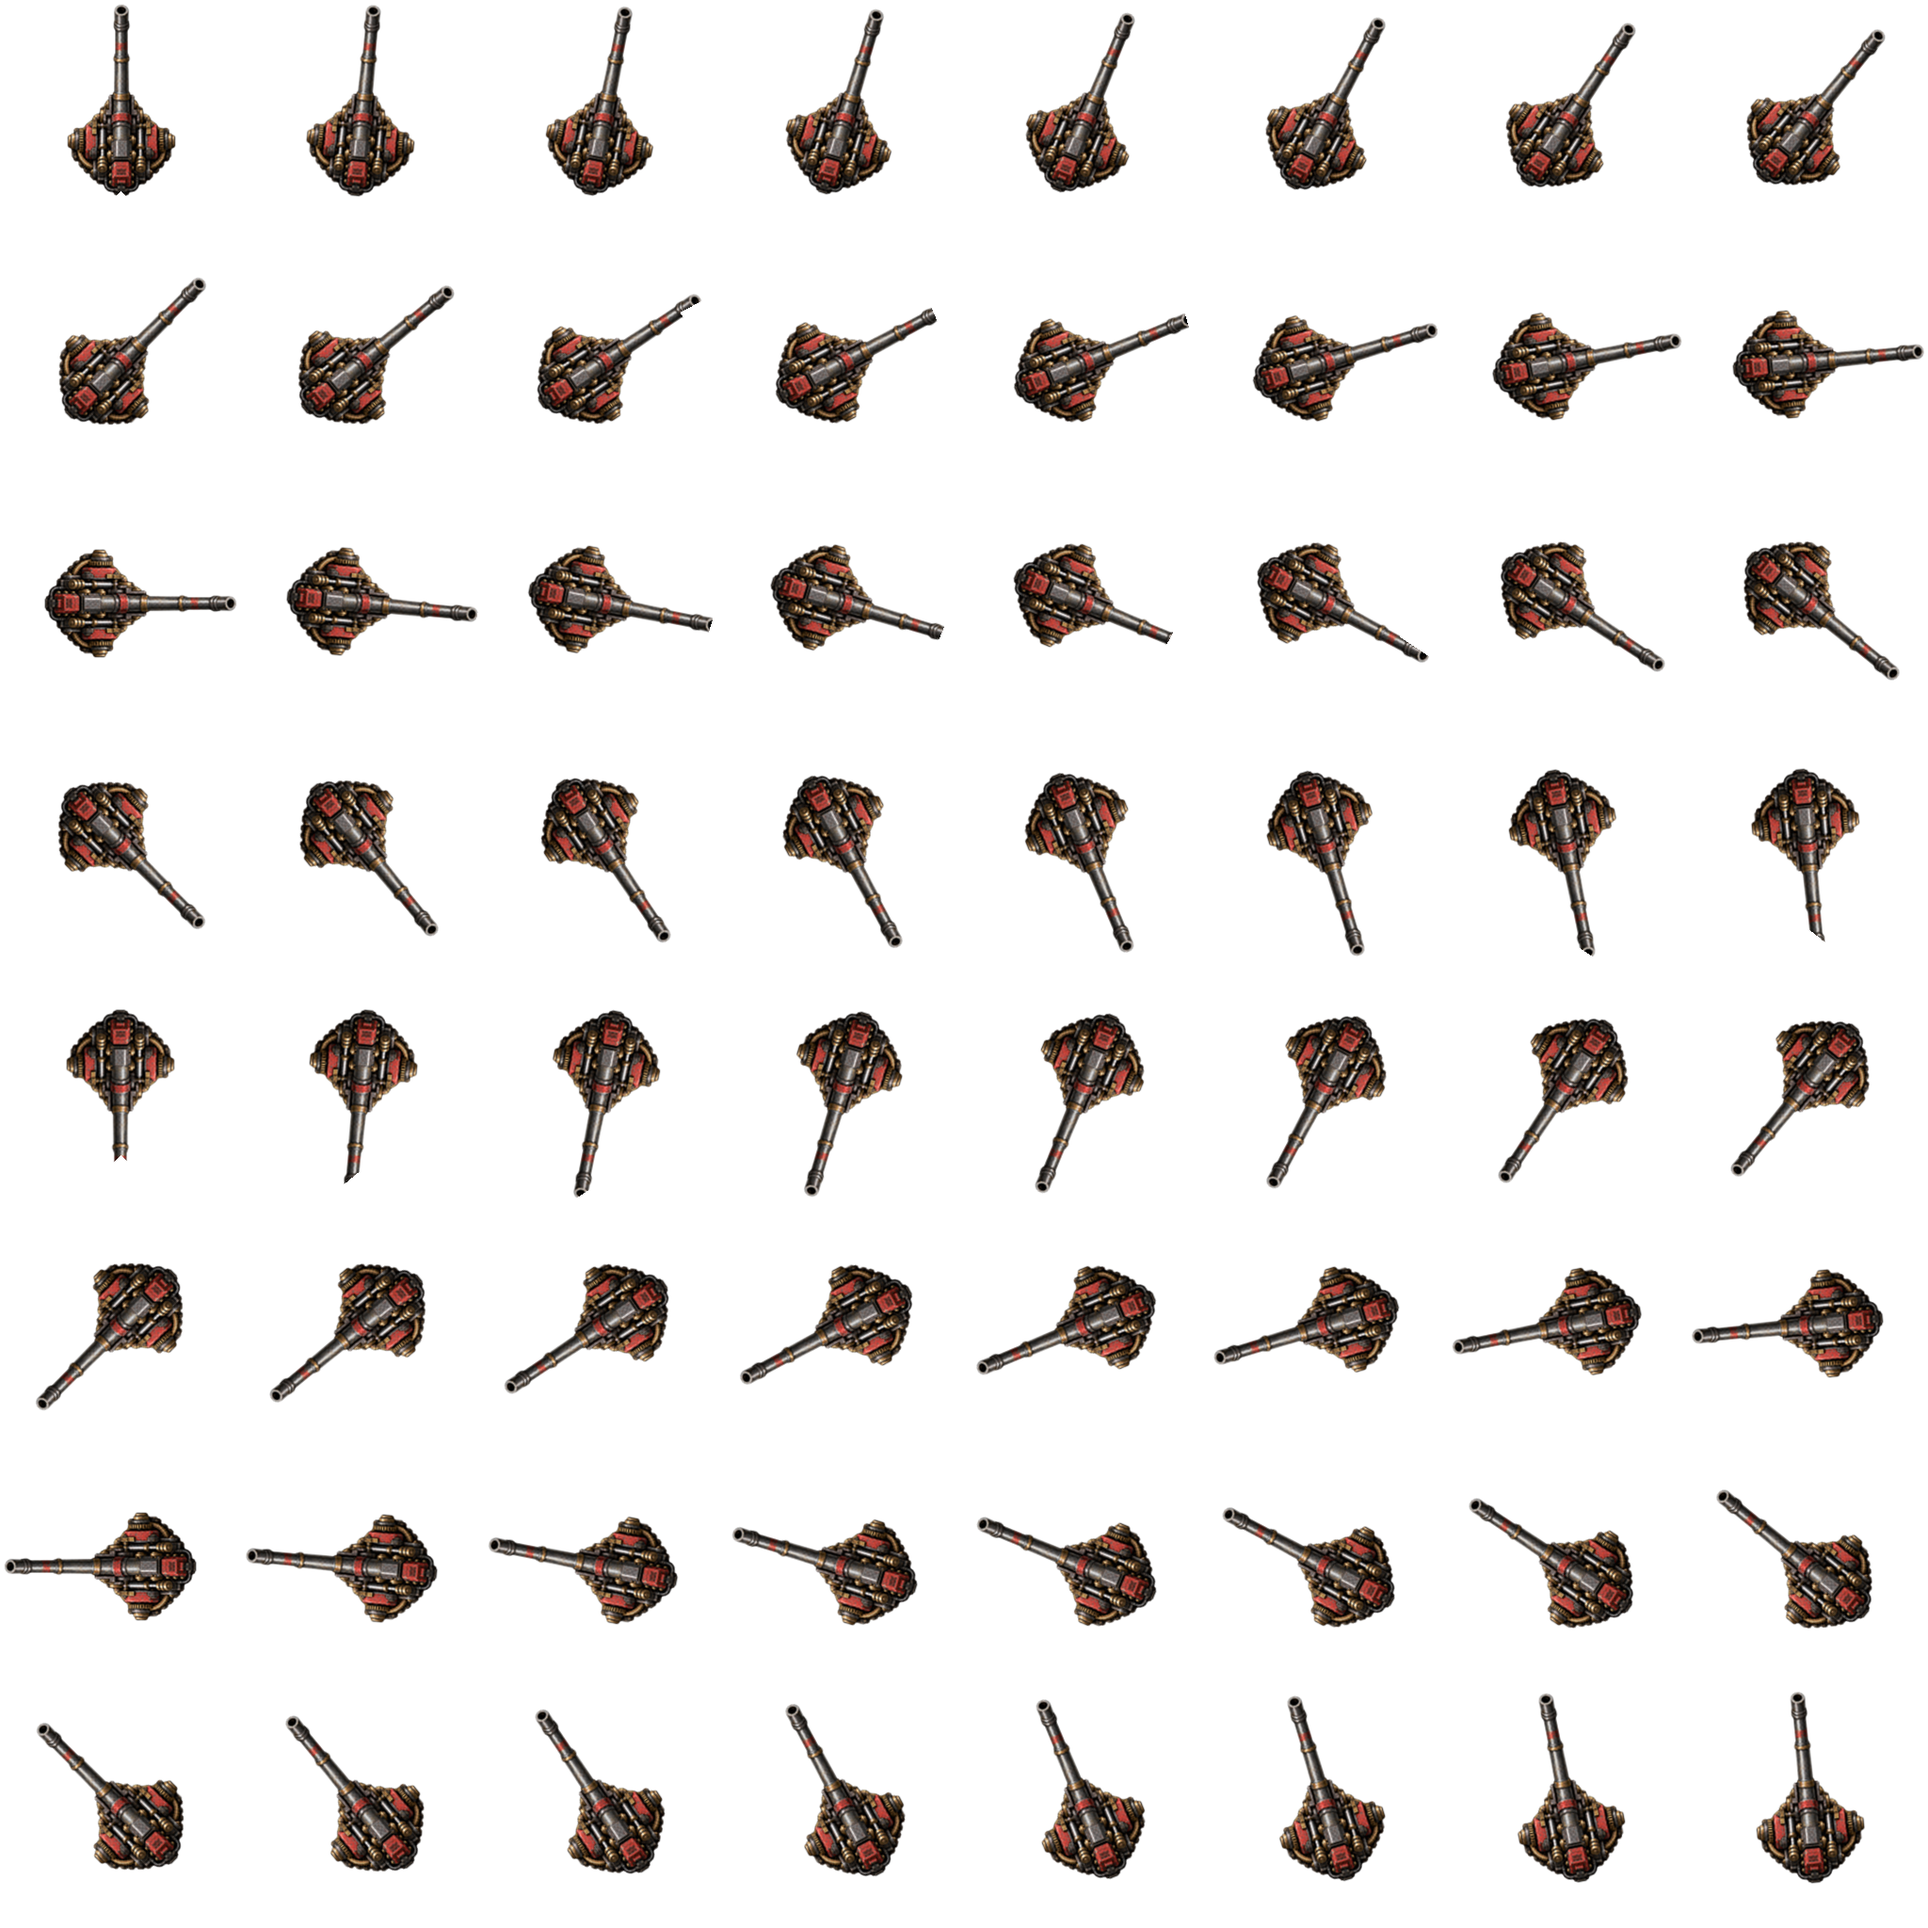
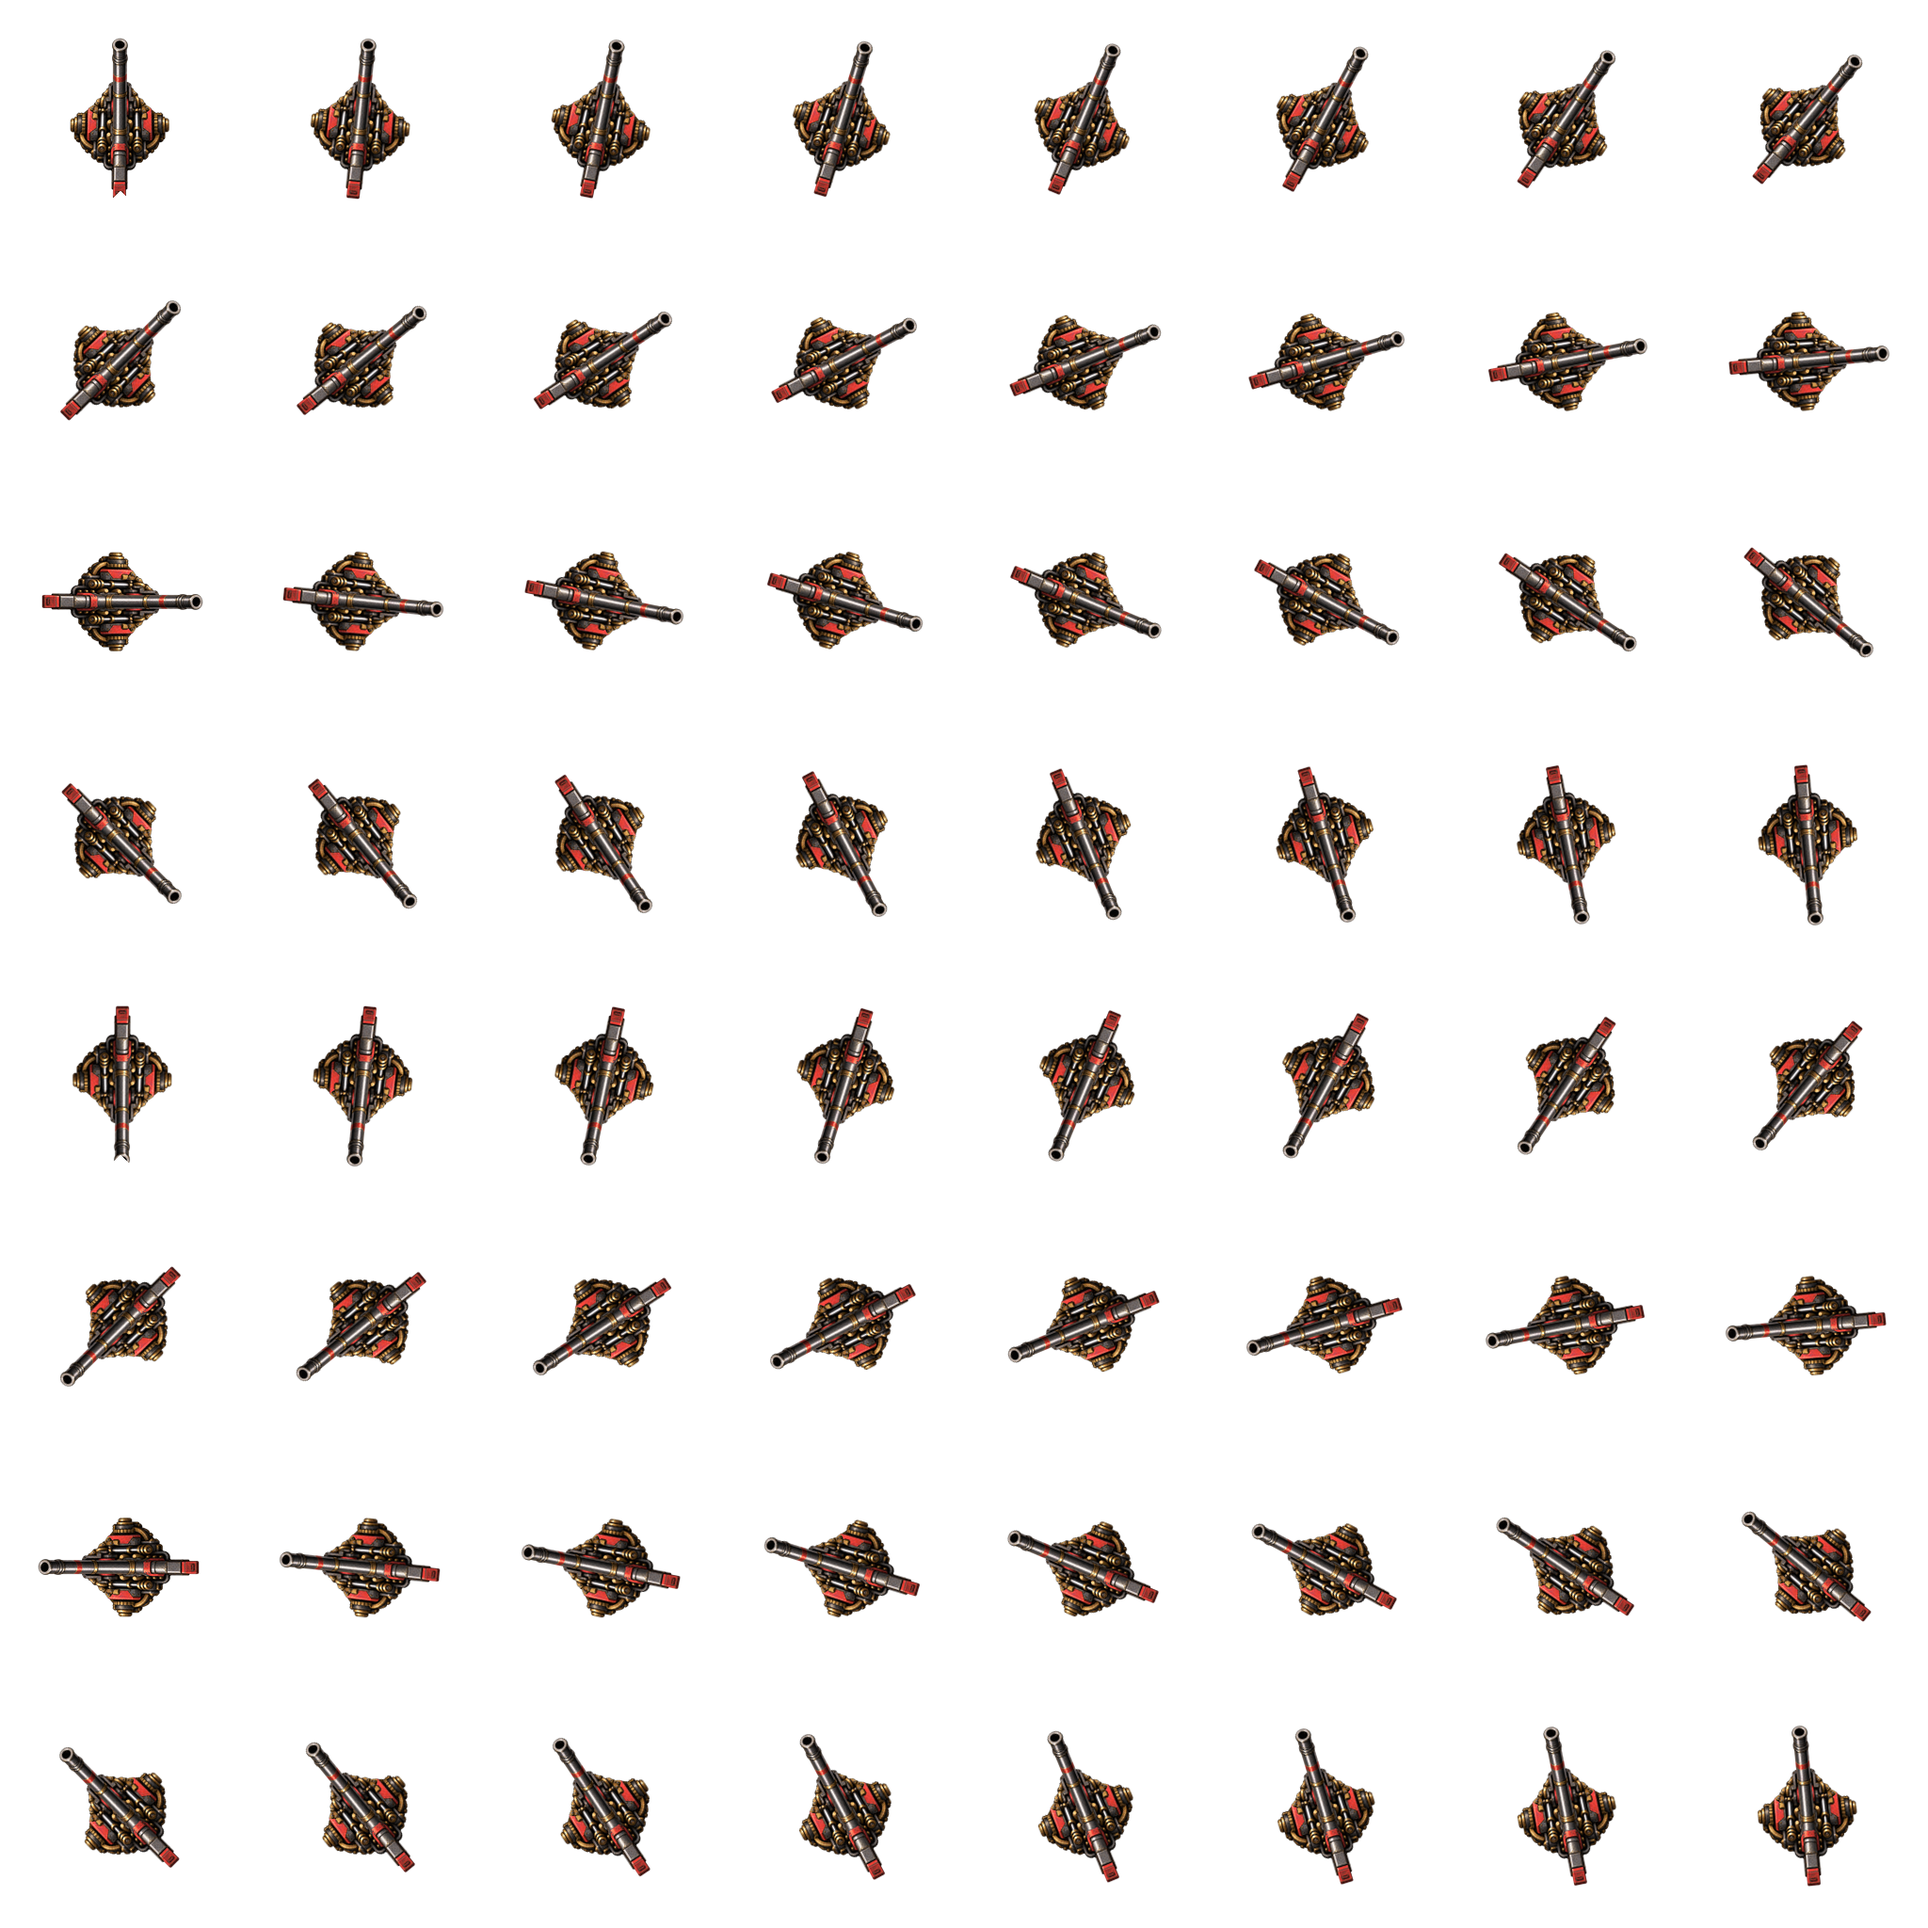
Update cannon sprites

diff --git a/long_range_cannon/README.md b/long_range_cannon/README.md
@@ -12,3 +12,11 @@ The blast is restricted to enemy forces and will not damage allied buildings or 
 The cannon automatically targets only stationary enemy spawners and worm-style turrets in chunks that are currently visible to its force; it ignores enemies hidden by fog of war as well as mobile biters and spitters. It enforces the closest eligible target every game tick. Shells pass harmlessly over intervening structures and apply all impact effects only where the projectile lands.
 
 Balance values and recipe ingredients can be changed in `config.lua`. Restart Factorio after editing the file.
+
+## Generate sprite sheet
+```powershell
+.\build_graphics.ps1 `
+  -GunSource ".\graphics\entity\long-range-cannon-sprite.png" `
+  -BaseSource ".\graphics\entity\long-range-cannon-base.png" `
+  -RoundSource ".\graphics\icons\long-range-cannon-round.png"
+```
